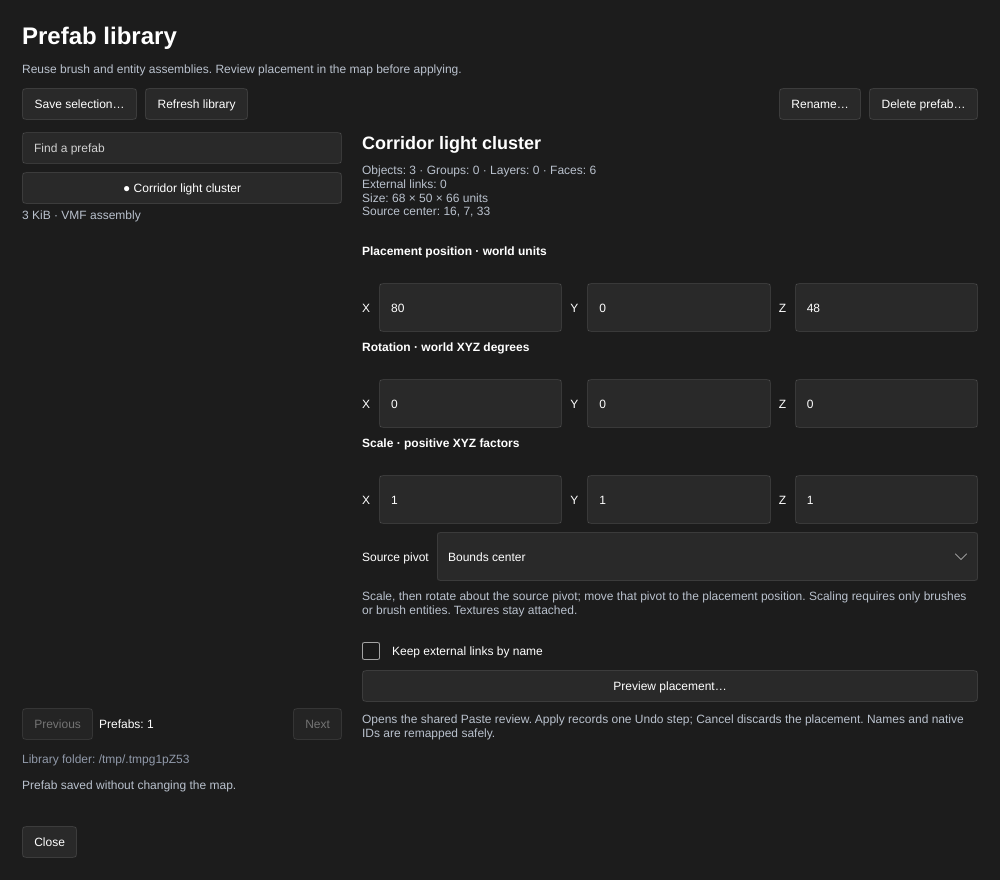
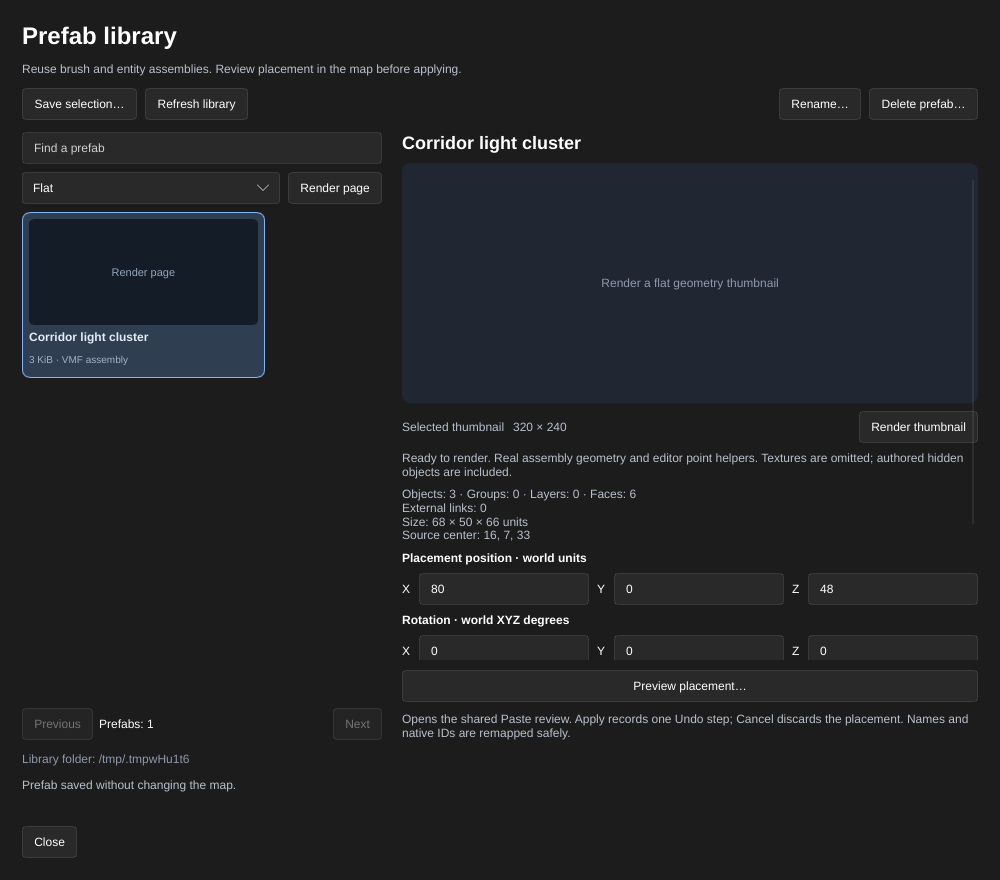
Document and capture the prefab gallery
- Refresh the showcase and manual with actual UI captures
- Record gallery MCP and common compile validation commands

diff --git a/docs/status.md b/docs/status.md
@@ -18,7 +18,7 @@ HammeRR is in active development.
 | Transaction history | Inspect actual object additions, changes, removals, affected map sections and recorded authors; navigate retained states through ordinary Undo/Redo. Opening another map resets history. Property diffs and persistent history are unavailable. |
 | Measurement guides | Named rulers save exact world endpoints, distances and XYZ components in editor-only VMF metadata, with owned Preview/Apply/Cancel, framing, visibility and Undo. Owned viewport surface picks share precise ray/pixel operations for visible brushes, terrain and model meshes. Point-entity origin attachments follow stable entity IDs through committed edits and displayed transform previews, with explicit detach/world repair and unavailable-reference diagnostics. Brush/surface/local-offset attachments and 3D workplanes are unavailable. |
 | Cut, copy and paste | Shared capture, guarded Cut, detached cross-map payloads, native VMF text and owned Paste previews work for bounded whole-object sets. Native group ancestors, owned-brush notes, terrain and exact internal links transfer. Native layer ancestry and owned-brush memberships transfer with independent IDs. Private Hammer clipboard formats, component copies and saved partitions are unsupported. |
-| Prefab library | Named portable VMF assemblies share save/search/inspection, rotated and brush-scaled Paste previews, source pivots, safe IDs/links/groups/layers/notes and atomic no-replace library renaming with reviewed deletion. Physical-directory reviews and retained directory handles protect against library retargeting; attached Sessions share catalog changes while Paste and thumbnail resources stay local. Explicit Flat/Textured modes share detached inspection, bounded image caching and explicit source/model errors. Textured admits supported opaque static base images with exact dependency checks; errors return no substitute image. Assets stay external; independent-writer coordination, thumbnail grids, direct replacement, point/model scaling and broader shader fidelity are unavailable. |
+| Prefab library | Named portable VMF assemblies share save/search/inspection, rotated and brush-scaled Paste previews, source pivots, safe IDs/links/groups/layers/notes and atomic no-replace library renaming with reviewed deletion. Physical-directory reviews and retained directory handles protect against library retargeting; attached Sessions share catalog changes while Paste and thumbnail resources stay local. Explicit Flat/Textured modes offer single previews and eight-card pages through **Render page** and MCP, with per-entry errors, exact source/dependency checks and lazy graphics. Assets stay external; independent-writer coordination, direct replacement, point/model scaling and broader shader fidelity are unavailable. |
 | Layers | Native nested layers support names, colors, reparenting, multiple memberships, exact selection, shared undoable map hide/show and clipboard transfer. Automatic categories and separate editor-only filters are unavailable. |
 | Object groups | Native nested groups for world brushes and whole entities support membership/name/parent edits, group selection, temporary bypass and Undo. Imported entity-owned child-brush memberships are preserved but cannot be edited; malformed group graphs cannot be authored. |
 | Brushes, transforms and shapes | Works. Rigid grid snapping previews the combined selection bounds minimum and shares Apply/Cancel. **Pick pivot…** sets an exact unsnapped custom world pivot from a visible brush, terrain or model surface, with owned Cancel and stale-context guards; map/history and framing stay fixed. The point does not follow its target; pivot entities, attachments, offsets and persistence are unavailable. Explicit real-corner snapping uses shared surface placement; magnetic snapping remains unavailable. |

diff --git a/docs/mcp.md b/docs/mcp.md
@@ -2002,7 +2002,8 @@ and Paste reviews stay local. Unchanged inspections keep the review valid.
 | Tool | Arguments and behavior |
 | --- | --- |
 | `inspect_prefab_thumbnail` | Exact `name`, optional `style` (`flat` or `textured`, default Flat); detached CPU geometry/material/count/bounds diagnostics, cache state and limits. Initializes no graphics. |
-| `render_prefab_thumbnail` | Exact `name`, optional `style` and `refresh` (default false); returns the same 320×240 PNG and report as **Thumbnail → Flat / Textured → Render thumbnail / Refresh thumbnail**. |
+| `render_prefab_thumbnail` | Exact `name`, optional `style` and `refresh` (default false); returns the same 320×240 PNG and report as choosing **Flat** or **Textured**, then **Render thumbnail** or **Refresh thumbnail**. |
+| `render_prefab_gallery` | Required `snapshot` from `get_prefabs`; optional `query`, `offset`, `limit` (1–8, default 8) and `style` (`flat` or `textured`, default Flat). Renders the same reviewed page as **Render page**. The first text block lists ordered entries; each successful entry's `image_content_index` identifies its PNG in the result's content array. Other entries report their own error without an image. |
 | `save_prefab` | Latest `snapshot`, new `name` and optional whole-object `ids` (selection by default). Captures before atomically creating a new file. Never overwrites; map/history/clipboard stay unchanged. |
 | `preview_prefab` | Latest `snapshot`, `name`, optional world `position` (defaults to zero), XYZ `rotation` in degrees, positive XYZ `scale`, source-world `pivot` (bounds center when omitted) and `keep_external_links` (false). Scale then rotation precede placement; nonidentity scale requires brushes only. Privately validates before changing clipboard/preview state. Returns `paste.preview.token` for `apply_paste` / `cancel_paste`. |
 | `rename_prefab` | Latest `snapshot`, original `name` and `new_name`. Atomically renames without overwriting an existing entry. Retains VMF bytes, clipboard, selection and map history. |
@@ -2053,6 +2054,11 @@ source-guard capture can read at most 80 MiB. Larger assemblies can still use
 placement. Inspection rejects unresolved instances, invalid geometry and missing
 or unsupported model geometry with explicit errors.
 See [Prefab library](prefabs.md).
+
+Gallery rendering reuses the same renderer and eight-image cache. A changed
+catalog rejects the whole page; source and texture dependencies are checked again
+before returning PNGs. The operation preserves the map, clipboard, camera,
+selection, placement review and history. It renders no other library pages.
 
 ### Overlay authoring
 

diff --git a/docs/prefabs.md b/docs/prefabs.md
@@ -19,12 +19,26 @@ files; placement uses the same checked preview, naming and Undo behavior as Past
 
 ![Prefab search, assembly details and placement controls](images/prefab-library.png)
 
+## Browse assembly previews
+
+1. Open **Prefabs…** and use **Find a prefab** to filter the cards.
+2. Choose **Flat** or **Textured** in the style menu above the cards, then click
+   **Render page**. Up to eight assemblies render on the current page. An entry
+   that cannot render shows its error; other entries can still have images.
+3. Use **Previous** or **Next** to change pages, then **Render page** again.
+   Changing the filter or style also clears the previous page's images.
+4. Choose a card to inspect its details and placement settings. Cards also
+   support keyboard focus and Enter or Space. **Render thumbnail** switches to
+   the selected assembly's larger preview.
+
+![Textured prefab cards beside the selected assembly's placement controls](images/prefab-gallery.png)
+
 ## Inspect an assembly's shape
 
 1. Choose an entry in **Prefab library**. Counts and source diagnostics are
    available immediately, including when graphics are unavailable.
-2. Leave **Thumbnail** set to **Flat**, then click **Render thumbnail**. The
-   320 × 240 image shows actual brush, terrain and model geometry with editor
+2. Leave the style menu above the cards set to **Flat**, then click **Render
+   thumbnail**. The 320 × 240 image shows actual brush, terrain and model geometry with editor
    point helpers. Flat includes authored hidden objects and omits textures and
    sky. Inspection and rendering preserve the map, selection, clipboard, camera,
    active placement review and Undo.
@@ -169,6 +183,10 @@ operations are separate from map Undo.
   can still race source-file changes after snapshot validation; existing targets
   are never overwritten. Preview source identity/size/mtime changes are checked
   before Apply, including changes made by another Session.
-- Thumbnail grids, direct replacement from selection,
+- The gallery renders only the requested page, with at most eight images.
+  Graphics start on an explicit render. **Refresh library** checks external
+  source changes; stale page images clear before another render. Rendering a
+  selected thumbnail clears the page images, retaining the same eight-image cap.
+- Direct replacement from selection,
   local-frame placement, referenced instances and linked editing are unavailable.
   Applied copies can be transformed independently through the normal controls.

diff --git a/docs/development.md b/docs/development.md
@@ -2476,3 +2476,27 @@ fake clients and deterministic completion barriers for direct, background and
 compile-and-play paths. They check stale/foreign/repeated completions, process
 and artifact cleanup, preserved replacement geometry, and same-buffer edits;
 they never start the user's game.
+
+### Prefab gallery and common compile submission
+
+```sh
+cargo test -p editor-core --features mcp session::prefabs::gallery::tests
+cargo test -p editor-core --features mcp gallery_tool_checks_review_limits
+cargo test -p editor prefab_gallery_controls_render_actual_cards_and_capture_gallery_without_mutating_owned_paste -- --ignored --test-threads=1
+python3 -B scripts/validate_prefab_thumbnails.py --binary target/debug/hammerr-headless --output /tmp/hammerr-prefab-gallery-check
+cargo test -p editor-core --features mcp runtime::compile_tests
+cargo test -p editor-core --features mcp submission_tests
+```
+
+Gallery checks cover eight-image bounds, explicit Flat/Textured styles, mixed
+entry errors, stale catalog/source/asset rejection, exact cache-publication
+identity and unchanged Paste/forms/history. The private MCP script checks actual
+PNG content indices and page limits. The ignored UI check renders real cards
+inside the software window and writes `prefab-gallery.png` when
+`HAMMERR_UI_SNAPSHOTS` names an existing directory; it uses no desktop input.
+
+UI/background and synchronous MCP compilation share `runtime::CompileSubmission`.
+Its fixed-origin completion ticket checks the unfinished job token before failure
+or success, including spawn/Join errors. Checks cover atomic Play/generation
+admission, cancellation, repeated/foreign completion, preserved initial status,
+and busy rejection through both paths. No compiler queue is introduced.

diff --git a/README.md b/README.md
@@ -276,8 +276,8 @@ Also: a typed inspector with color pickers, brightness sliders and spawn flags; 
 
 | Prefab library | Referenced brush assemblies |
 | --- | --- |
-| ![Selected prefab with an isolated textured thumbnail](docs/images/prefab-textured-thumbnail.png) | ![Resolved brush instance geometry](docs/images/instance-reference-contents.png) |
-| Browse flat or textured assembly previews, then place rotated or brush-scaled copies. | Extract, place, preview and compile reusable world/detail VMFs with guarded dependencies. |
+| ![Textured prefab gallery with placement controls](docs/images/prefab-gallery.png) | ![Resolved brush instance geometry](docs/images/instance-reference-contents.png) |
+| Browse flat or textured assembly galleries, then place rotated or brush-scaled copies. | Extract, place, preview and compile reusable world/detail VMFs with guarded dependencies. |
 
 | Transaction history |
 | --- |
